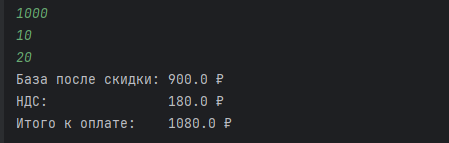
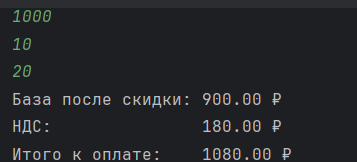
fix lab

diff --git a/src/lab01/03_discount_vat.py b/src/lab01/03_discount_vat.py
@@ -4,6 +4,6 @@ vat = float(input())
 base = round((price * (1 - discount / 100)), 2)
 vat_amount = round((base * (vat / 100)), 2)
 total = round((base + vat_amount), 2)
-print(f"База после скидки: {base} ₽")
-print(f"НДС:               {vat_amount} ₽")
-print(f"Итого к оплате:    {total} ₽")
+print(f"База после скидки: {"{:.2f}".format(base)} ₽")
+print(f"НДС:               {"{:.2f}".format(vat_amount)} ₽")
+print(f"Итого к оплате:    {"{:.2f}".format(total)} ₽")

diff --git a/README.md b/README.md
@@ -30,9 +30,9 @@ vat = float(input())
 base = round((price * (1 - discount / 100)), 2)
 vat_amount = round((base * (vat / 100)), 2)
 total = round((base + vat_amount), 2)
-print(f"База после скидки: {base} ₽")
-print(f"НДС:               {vat_amount} ₽")
-print(f"Итого к оплате:    {total} ₽")
+print(f"База после скидки: {"{:.2f}".format(base)} ₽")
+print(f"НДС:               {"{:.2f}".format(vat_amount)} ₽")
+print(f"Итого к оплате:    {"{:.2f}".format(total)} ₽")
 
 ```
 ![Картинка 3](./images/lab01/03_discount_vat.png)
